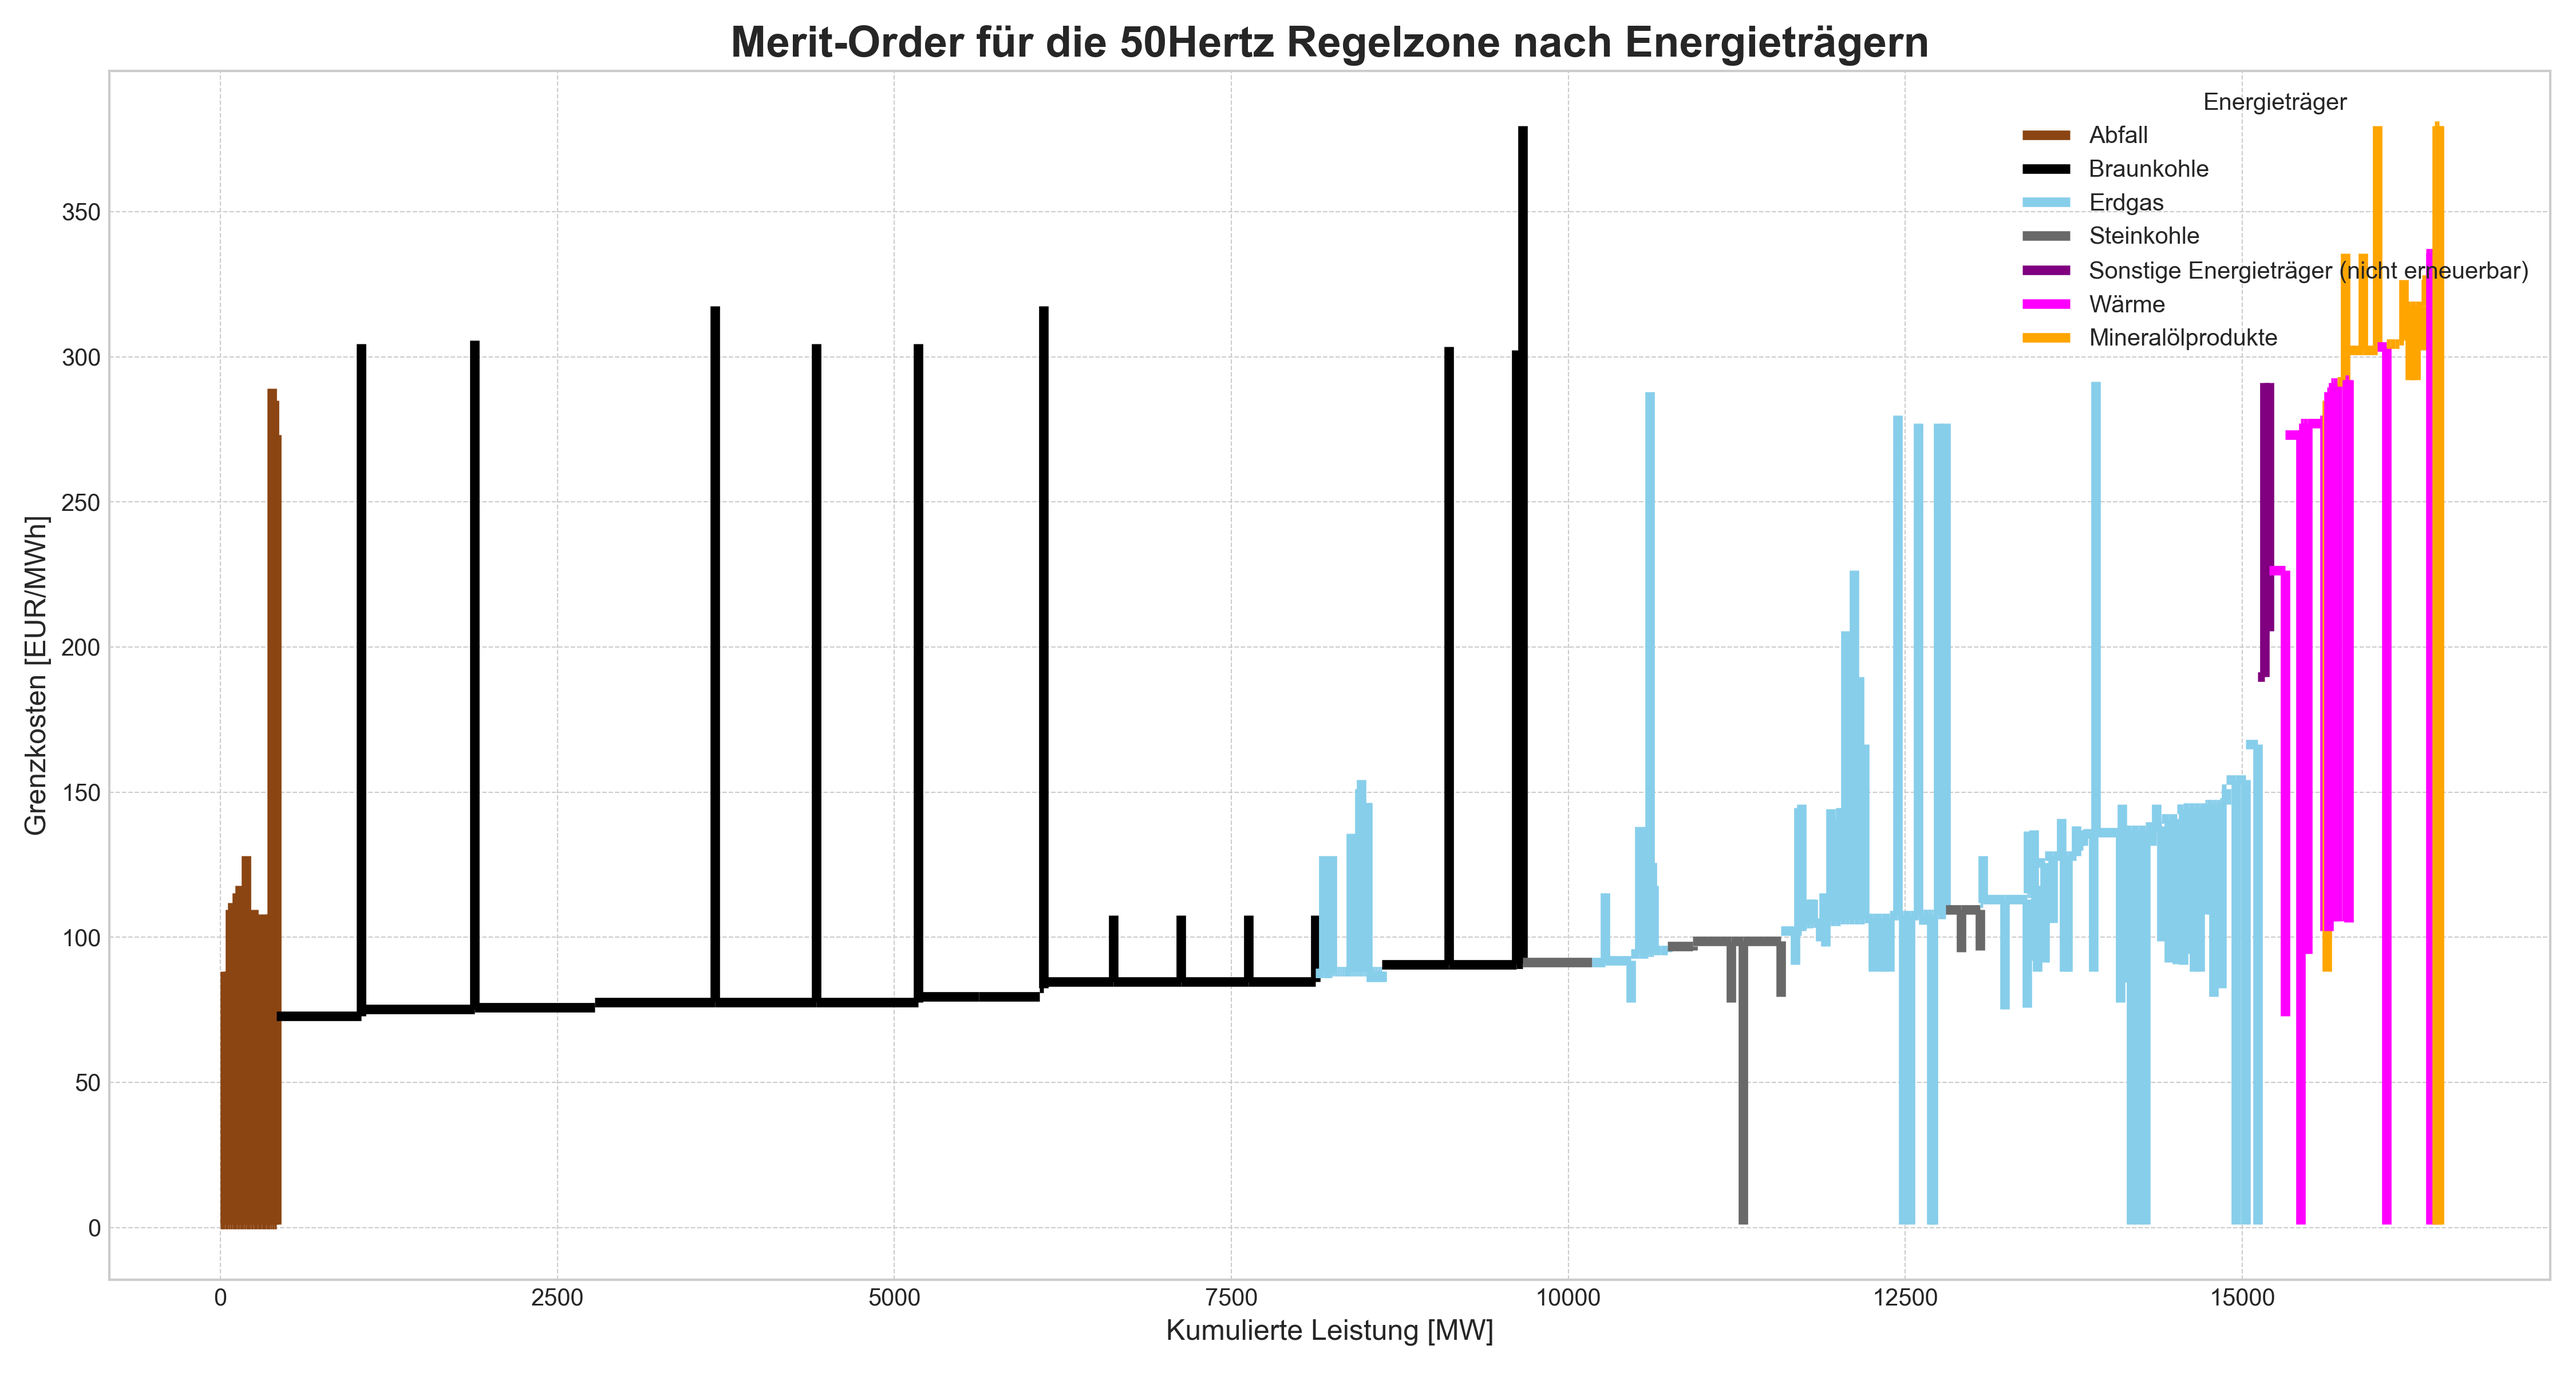
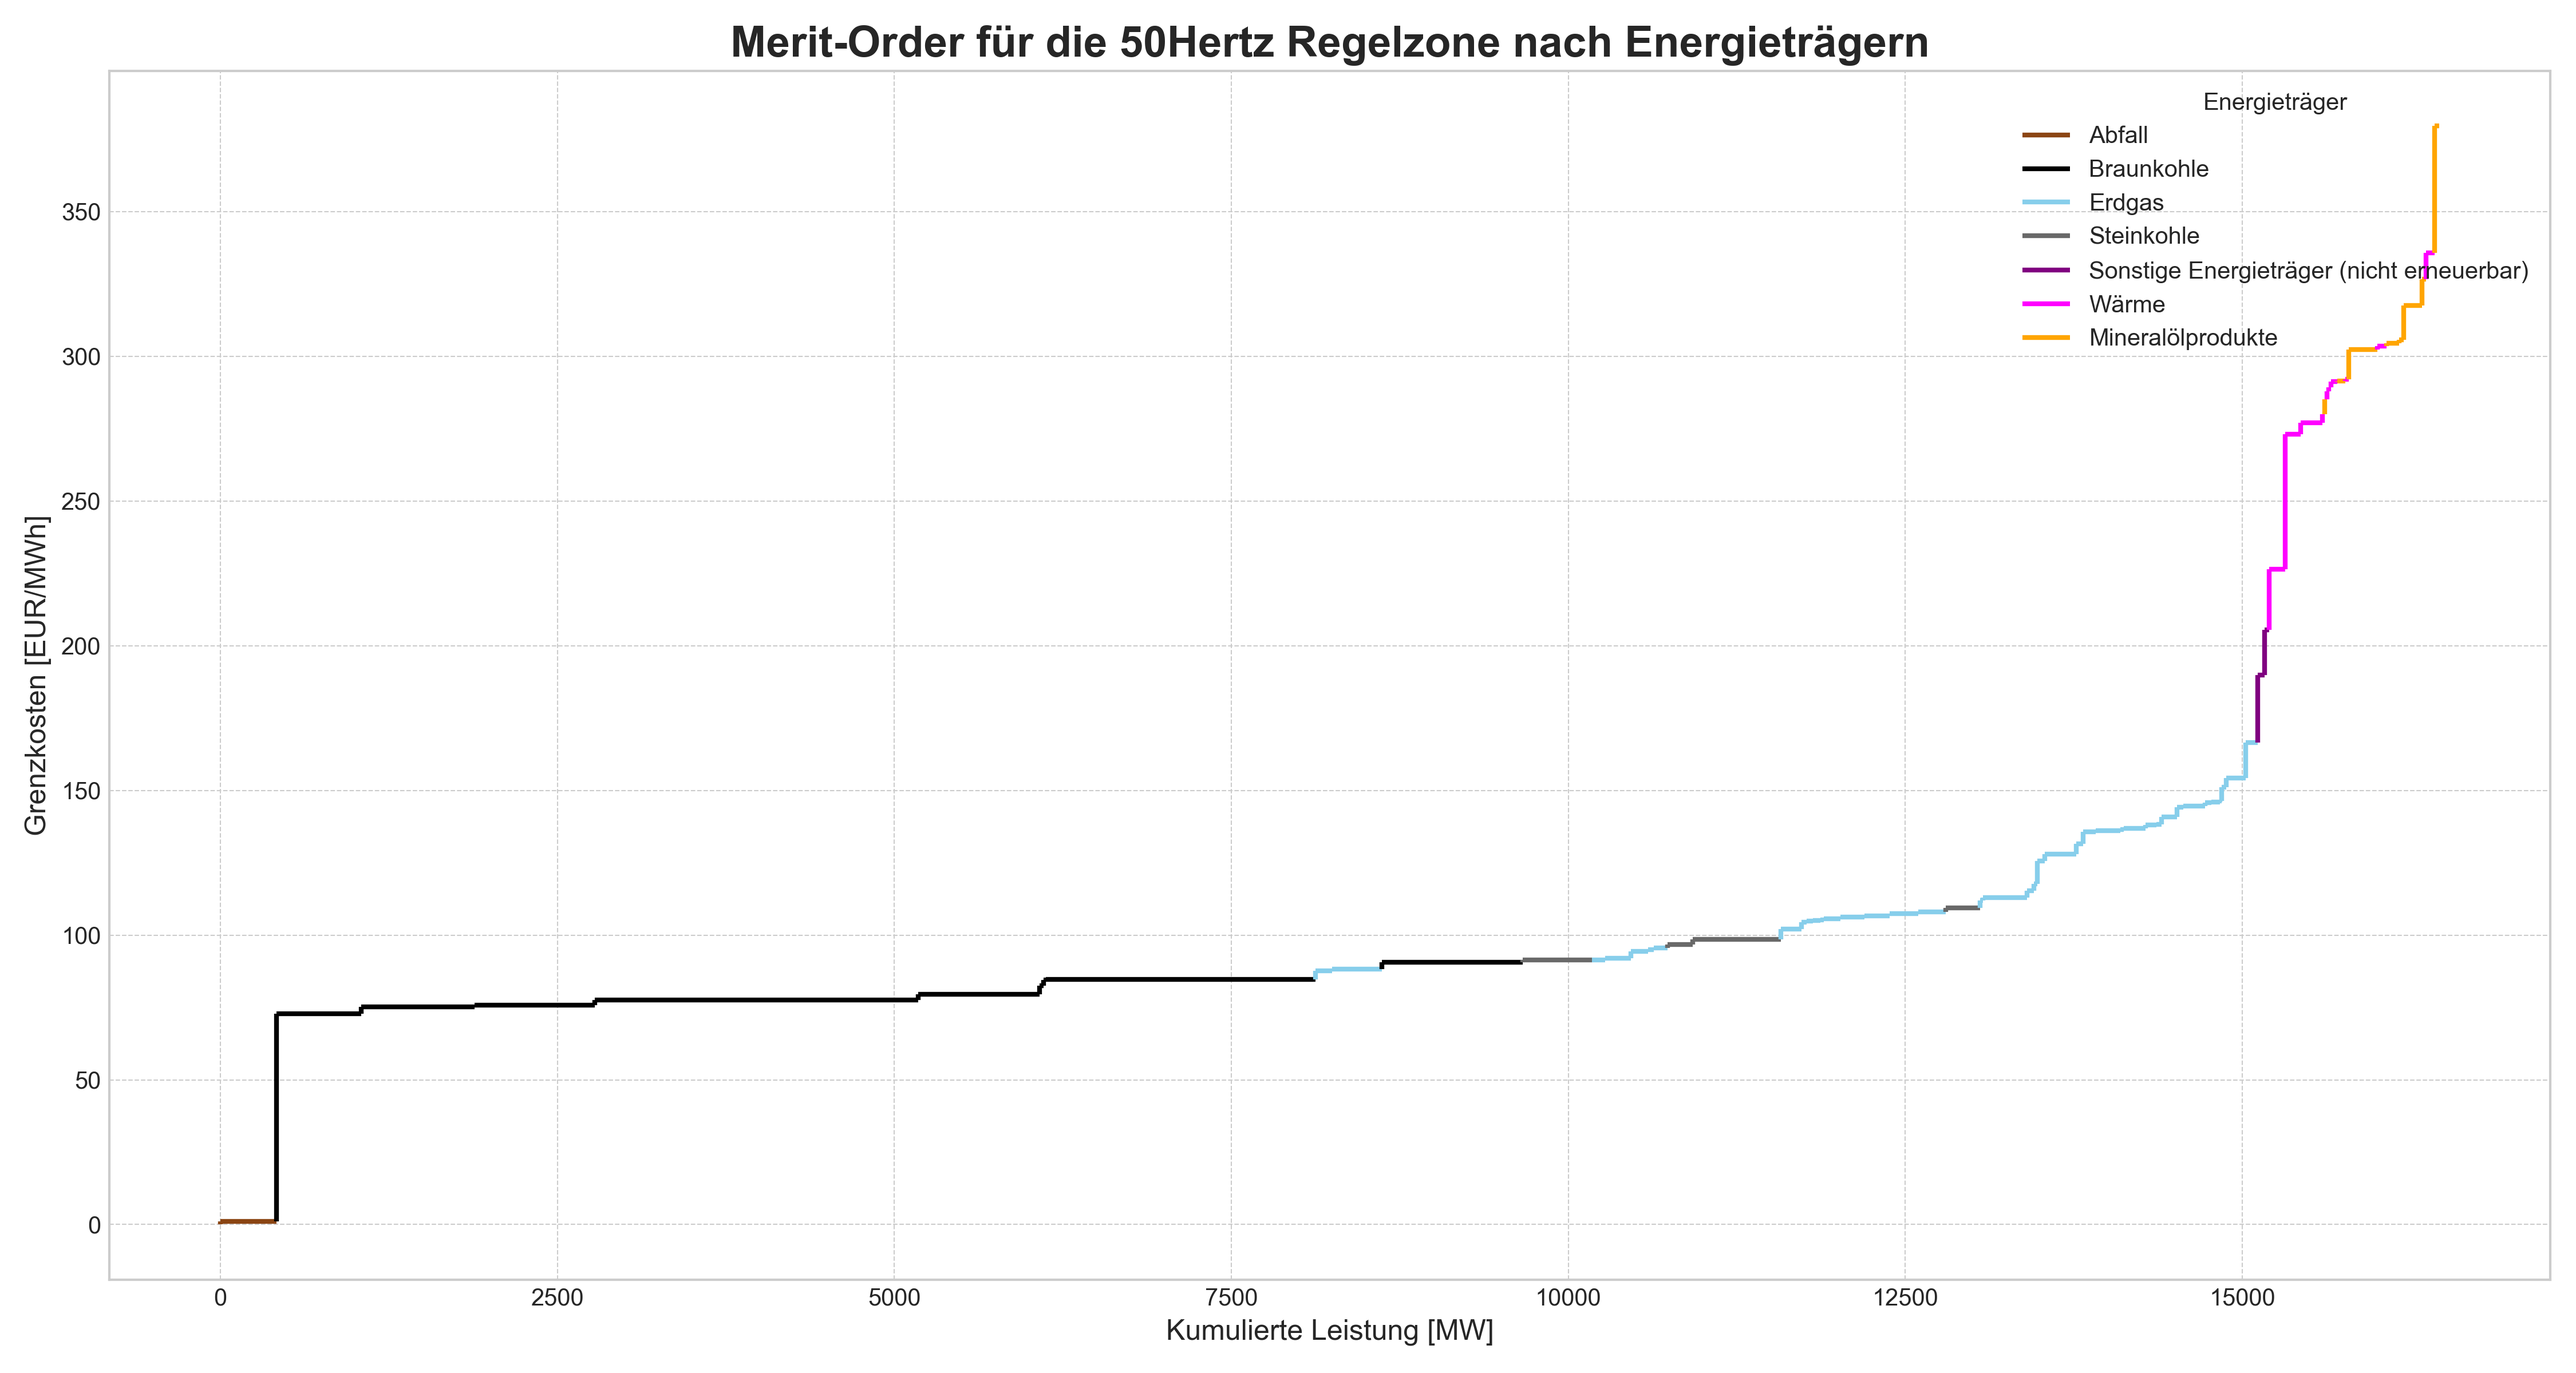
First visual changes

diff --git a/Projekt/Merit-Order/50_Hz.py b/Projekt/Merit-Order/50_Hz.py
@@ -1,4 +1,3 @@
-
 import pandas as pd
 import matplotlib.pyplot as plt
 import numpy as np
@@ -53,45 +52,67 @@ df_sorted = df_filtered.sort_values(by=grenzkosten_col)
 # Dies ist die Summe der Leistung der Kraftwerke in der sortierten Reihenfolge.
 df_sorted['Kumulierte Leistung [MW]'] = df_sorted[leistung_col].cumsum()
 
-# Vorbereitung für das Plotten
-# Erstellen von Stufen für die Treppenfunktion der Merit-Order
-x_values = np.zeros(len(df_sorted) * 2)
-y_values = np.zeros(len(df_sorted) * 2)
-
-# Die erste Stufe beginnt bei 0 Leistung
-x_values[0] = 0
-y_values[0] = df_sorted[grenzkosten_col].iloc[0]
-
-# Erzeugen der Treppenstufen
-for i in range(len(df_sorted) - 1):
-    x_values[2 * i + 1] = df_sorted['Kumulierte Leistung [MW]'].iloc[i]
-    y_values[2 * i + 1] = df_sorted[grenzkosten_col].iloc[i]
-    x_values[2 * i + 2] = df_sorted['Kumulierte Leistung [MW]'].iloc[i]
-    y_values[2 * i + 2] = df_sorted[grenzkosten_col].iloc[i+1]
-
-# Letzter Punkt der Kurve
-x_values[-1] = df_sorted['Kumulierte Leistung [MW]'].iloc[-1]
-y_values[-1] = df_sorted[grenzkosten_col].iloc[-1]
-
-
 # 5. Grafische Darstellung mit Matplotlib
 plt.style.use('seaborn-v0_8-whitegrid')
 fig, ax = plt.subplots(figsize=(15, 8))
 
-# Zeichnen der Merit-Order-Kurve
-ax.plot(x_values, y_values, drawstyle='steps-post', label='Merit-Order Kurve', color='royalblue', linewidth=2)
+# Definition der Farben für die verschiedenen Energieträger
+# Sie können diese Farben nach Belieben anpassen
+farben = {
+    'Abfall': 'saddlebrown',
+    'Braunkohle': 'black',
+    'Erdgas': 'skyblue',
+    'Mineralölprodukte': 'orange',
+    'Steinkohle': 'dimgray',
+    'Wärme': 'magenta',
+    'Sonstige Energieträger (nicht erneuerbar)': 'purple',
+    'Sonstige': 'lightgrey'
+}
+
+# Vorbereitung für das Plotten
+vorherige_kumulierte_leistung = 0
+vorherige_grenzkosten = 0
+labels_hinzugefuegt = set()
+
+# Zeichnen der Merit-Order-Kurve als saubere Stufenkurve
+for index, row in df_sorted.iterrows():
+    energietraeger = row[energietraeger_col]
+    grenzkosten = row[grenzkosten_col]
+    kumulierte_leistung = row['Kumulierte Leistung [MW]']
+    
+    farbe = farben.get(energietraeger, 'grey') # Standardfarbe, falls Energieträger nicht im Dictionary ist
+    
+    label = energietraeger if energietraeger not in labels_hinzugefuegt else None
+    
+    # Vertikale Linie von der vorherigen zur aktuellen Kostenstufe
+    ax.vlines(x=vorherige_kumulierte_leistung, ymin=vorherige_grenzkosten, ymax=grenzkosten, 
+              color=farbe, linestyle='-', linewidth=2)
+    
+    # Horizontale Linie für das Kraftwerk
+    ax.hlines(y=grenzkosten, xmin=vorherige_kumulierte_leistung, xmax=kumulierte_leistung, 
+              color=farbe, linestyle='-', linewidth=2, label=label)
+
+    if label:
+        labels_hinzugefuegt.add(energietraeger)
+        
+    # Werte für die nächste Iteration speichern
+    vorherige_kumulierte_leistung = kumulierte_leistung
+    vorherige_grenzkosten = grenzkosten
 
 # Titel und Achsenbeschriftungen
-ax.set_title('Merit-Order für die 50Hertz Regelzone', fontsize=18, fontweight='bold')
+ax.set_title('Merit-Order für die 50Hertz Regelzone nach Energieträgern', fontsize=18, fontweight='bold')
 ax.set_xlabel('Kumulierte Leistung [MW]', fontsize=12)
 ax.set_ylabel('Grenzkosten [EUR/MWh]', fontsize=12)
+
+# Legende hinzufügen
+ax.legend(title='Energieträger')
 
 # Gitternetz und Layout
 ax.grid(True, which='both', linestyle='--', linewidth=0.5)
 plt.tight_layout()
 
 # Speichern der Grafik
-output_filename = 'Merit_Order_50Hz.png'
+output_filename = 'Merit_Order_50Hz_farbig.png'
 plt.savefig(output_filename, dpi=300)
 
 # Anzeigen der Grafik
